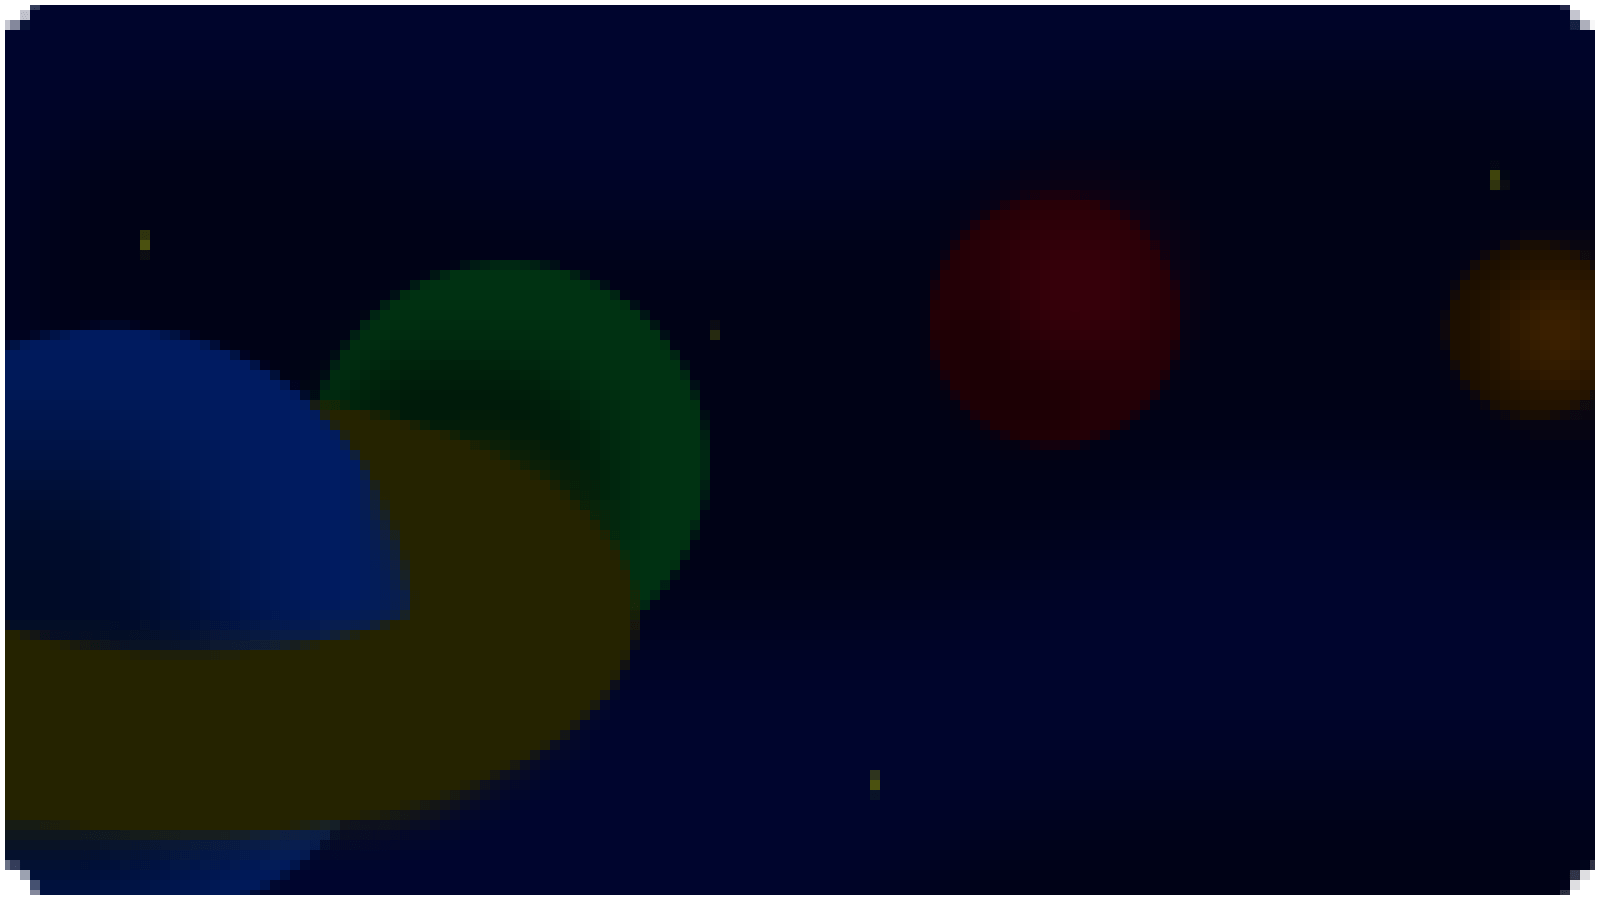
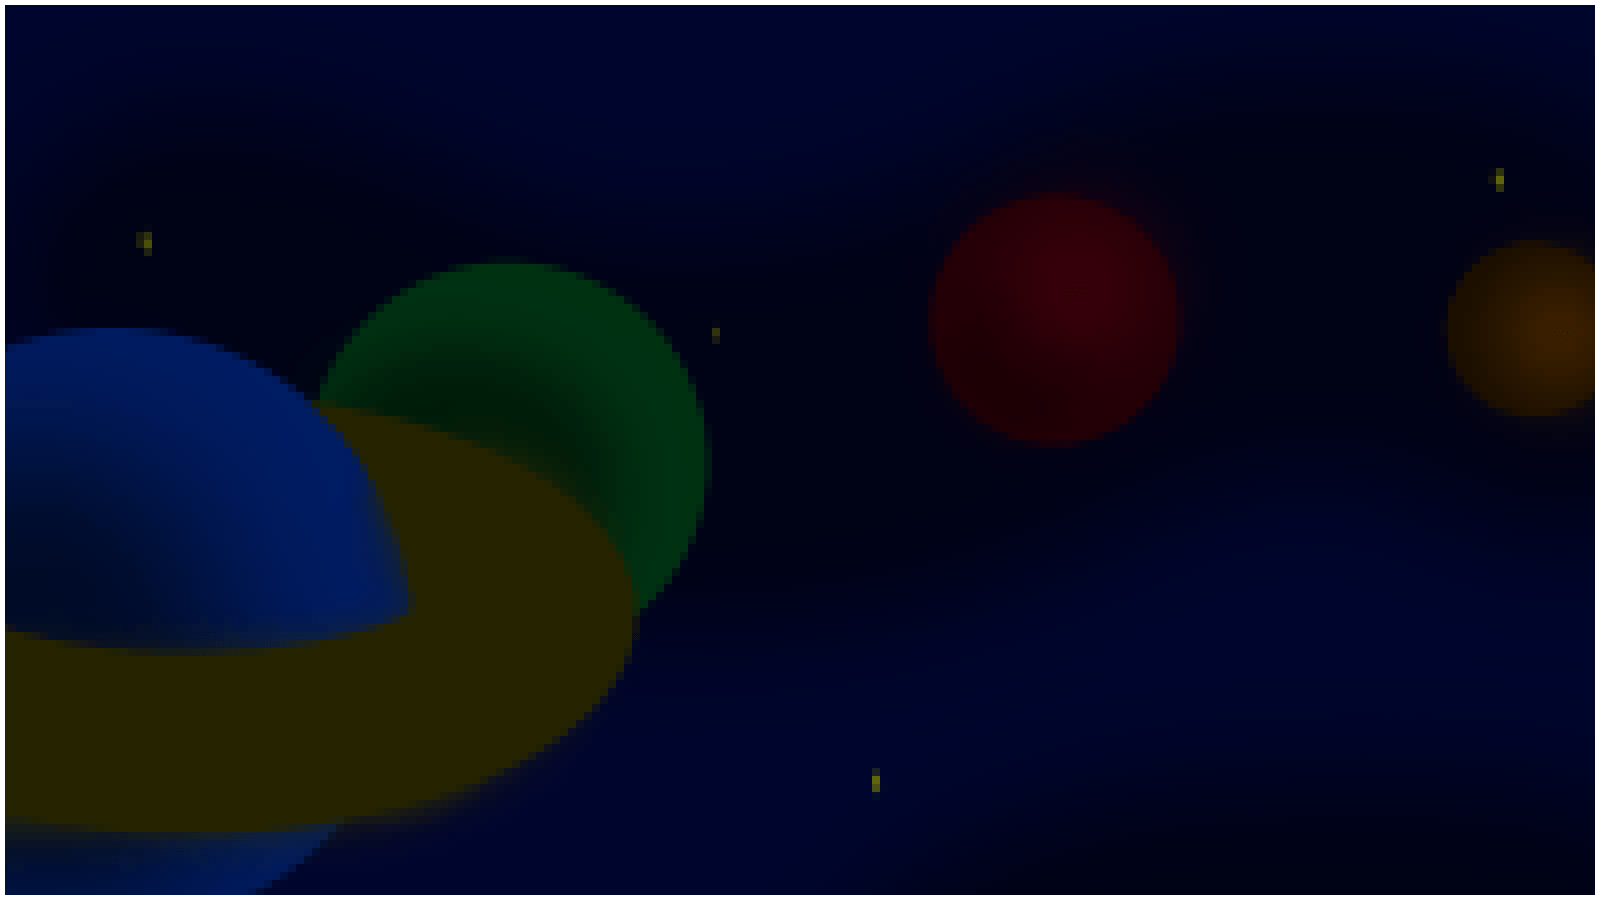
Updates
- New boss alien sprite
- Added boss alien animation
- New play button
- Updated background image
- Optimized code

diff --git a/fun game  not virus/scoreboard.py b/fun game  not virus/scoreboard.py
@@ -1,4 +1,6 @@
 import pygame
+from pygame.sprite import Group
+from ship import Ship
 
 
 class Scoreboard():
@@ -7,107 +9,47 @@ class Scoreboard():
     def __init__(self, ai_game):
         #Initialize digits 0-9
 
+        super().__init__()
         self.ai_game = ai_game
         self.screen = ai_game.screen
         self.screen_rect = self.screen.get_rect()
         self.settings = ai_game.settings
         self.stats = ai_game.stats
-        self.scoreboard = pygame.image.load('images/scoreboard.png')
+        self.scoreboard = pygame.image.load('images/scoreboard.png').convert_alpha()
         self.sb_rect = self.scoreboard.get_rect()
         self.sb_rect.top = self.screen_rect.top + 10
         self.sb_rect.right = self.screen_rect.right - 10
-        self.score0 = pygame.image.load('images/score0.png')
-        self.score0_rect = self.score0.get_rect()
-        self.score0_rect.top = self.screen_rect.top + 19
-        self.score1 = pygame.image.load('images/score1.png')
-        self.score1_rect = self.score1.get_rect()
-        self.score1_rect.top = self.screen_rect.top + 19
-        self.score2 = pygame.image.load('images/score2.png')
-        self.score2_rect = self.score2.get_rect()
-        self.score2_rect.top = self.screen_rect.top + 19
-        self.score3 = pygame.image.load('images/score3.png')
-        self.score3_rect = self.score3.get_rect()
-        self.score3_rect.top = self.screen_rect.top + 19
-        self.score4 = pygame.image.load('images/score4.png')
-        self.score4_rect = self.score4.get_rect()
-        self.score4_rect.top = self.screen_rect.top + 19
-        self.score5 = pygame.image.load('images/score5.png')
-        self.score5_rect = self.score5.get_rect()
-        self.score5_rect.top = self.screen_rect.top + 19
-        self.score6 = pygame.image.load('images/score6.png')
-        self.score6_rect = self.score6.get_rect()
-        self.score6_rect.top = self.screen_rect.top + 19
-        self.score7 = pygame.image.load('images/score7.png')
-        self.score7_rect = self.score7.get_rect()
-        self.score7_rect.top = self.screen_rect.top + 19
-        self.score8 = pygame.image.load('images/score8.png')
-        self.score8_rect = self.score8.get_rect()
-        self.score8_rect.top = self.screen_rect.top + 19
-        self.score9 = pygame.image.load('images/score9.png')
-        self.score9_rect = self.score9.get_rect()
-        self.score9_rect.top = self.screen_rect.top + 19
-        self.score_rect_list = [self.score0_rect, self.score1_rect, self.score2_rect, self.score3_rect, self.score4_rect, self.score5_rect, self.score6_rect, self.score7_rect, self.score8_rect, self.score9_rect]
-        self.score_list = [self.score0, self.score1, self.score2, self.score3, self.score4, self.score5, self.score6, self.score7, self.score8, self.score9]
-        self.place = 0
+        self.font = pygame.font.SysFont('malgungothicsemilight', 32, True, False)
+        self.points = self.font.render(f'{self.ai_game.stats.score:010d}', True, pygame.Color('black')).convert_alpha()
+        self.points_rect = self.points.get_rect()
+        self.points_rect.top = self.sb_rect.top - 2
+        self.points_rect.left = self.sb_rect.left + 16
+        self.cur_points = self.ai_game.stats.score
+        self.cur_lives = 0
+        self.ships_left()
 
-    def _check_score(self):
-        #Update digit shown in each place based on score
+    def update(self):
+        #Update the scoreboard
 
-        if self.place == 1:
-            num = self.stats.score % 10
-            self.score_rect_list[num].right = self.screen_rect.right - 17
-            self.screen.blit(self.score_list[num], self.score_rect_list[num])
+        if self.cur_points != self.ai_game.stats.score:
+            self.points = self.font.render(f'{self.ai_game.stats.score:010d}', True, pygame.Color('black')).convert_alpha()
+        self.cur_points = self.ai_game.stats.score
 
-        elif self.place == 2:
-            num = (self.stats.score // 10) % 10
-            self.score_rect_list[num].right = self.screen_rect.right - 56
-            self.screen.blit(self.score_list[num], self.score_rect_list[num])
+    def ships_left(self):
+        #Manages ship lives
 
-        elif self.place == 3:
-            num = (self.stats.score // 100) % 10
-            self.score_rect_list[num].right = self.screen_rect.right - 95
-            self.screen.blit(self.score_list[num], self.score_rect_list[num])
-
-        elif self.place == 4:
-            num = (self.stats.score // 1_000) % 10
-            self.score_rect_list[num].right = self.screen_rect.right - 134
-            self.screen.blit(self.score_list[num], self.score_rect_list[num])
-
-        elif self.place == 5:
-            num = (self.stats.score // 10_000) % 10
-            self.score_rect_list[num].right = self.screen_rect.right - 173
-            self.screen.blit(self.score_list[num], self.score_rect_list[num])
-
-        elif self.place == 6:
-            num = (self.stats.score // 100_000) % 10
-            self.score_rect_list[num].right = self.screen_rect.right - 212
-            self.screen.blit(self.score_list[num], self.score_rect_list[num])
-
-        elif self.place == 7:
-            num = (self.stats.score // 1_000_000) % 10
-            self.score_rect_list[num].right = self.screen_rect.right - 251
-            self.screen.blit(self.score_list[num], self.score_rect_list[num])
-
-        elif self.place == 8:
-            num = (self.stats.score // 10_000_000) % 10
-            self.score_rect_list[num].right = self.screen_rect.right - 290
-            self.screen.blit(self.score_list[num], self.score_rect_list[num])
-
-        elif self.place == 9:
-            num = (self.stats.score // 100_000_000) % 10
-            self.score_rect_list[num].right = self.screen_rect.right - 329
-            self.screen.blit(self.score_list[num], self.score_rect_list[num])
-
-        elif self.place == 10:
-            num = (self.stats.score // 1_000_000_000) % 10
-            self.score_rect_list[num].right = self.screen_rect.right - 368
-            self.screen.blit(self.score_list[num], self.score_rect_list[num])
-
+        if self.cur_lives != self.stats.ships_left:
+            self.ship_lives = Group()
+            for i in range(self.stats.ships_left - 1):
+                ship = Ship(self.ai_game)
+                ship.rect.right = self.sb_rect.left - 16 - (48 * i)
+                ship.rect.centery = self.sb_rect.centery
+                self.ship_lives.add(ship)
+        self.cur_lives = self.stats.ships_left
 
     def show_score(self):
         #Draw score on screen
 
         self.screen.blit(self.scoreboard, self.sb_rect)
-        
-
-
+        self.screen.blit(self.points, self.points_rect)
+        self.ship_lives.draw(self.screen)

diff --git a/fun game  not virus/play_game.py b/fun game  not virus/play_game.py
@@ -38,7 +38,6 @@ class AlienInvaders:
         self.bullets = pygame.sprite.Group()
         self.aliens1 = pygame.sprite.Group()
         self.aliens2 = pygame.sprite.Group()
-        self.scores = []
         self.cur_ammo = self.settings.bullet_limit
         self.spawn_alien2_count = self.settings.spawn_alien2
         self.a1_kill_amount = 0
@@ -54,6 +53,7 @@ class AlienInvaders:
                 self.ship.update()
                 self._update_bullets()
                 self._update_aliens()
+                self.sb.update()
             self._update_screen()
             self.clock.tick(60)
        
@@ -178,14 +178,6 @@ class AlienInvaders:
         alien2.rect = alien2.rect2
         self.aliens2.add(alien2)
 
-    def _inti_scores(self):
-        #Initialize scoreboard numbers
-
-        for i in range(1, 11):
-            score = Scoreboard(self)
-            score.place = i
-            self.scores.append(score)
-
     def _ship_hit(self):
         #Respond if ship is hit by alien
         
@@ -193,16 +185,18 @@ class AlienInvaders:
             self.stats.ships_left -= 1
             self.spawn_alien2_count = self.settings.spawn_alien2
             self.a1_kill_amount = 0
+            self.sb.ships_left()
             self.aliens1.empty()
             self.aliens2.empty()
             self.bullets.empty()
             self.cur_ammo = self.settings.bullet_limit
             self.ship.center_ship()
-            sleep(.5)
-        else:
-            self.stats.game_active = False
             sleep(1)
+        else:
+            self.sb.ships_left()
+            self.stats.game_active = False
             pygame.mouse.set_visible(True)
+            sleep(1)
 
     def _check_play(self, mouse_pos):
         #Ending and start screen buttons
@@ -211,12 +205,11 @@ class AlienInvaders:
             self.stats.reset_stats()
             self.spawn_alien2_count = self.settings.spawn_alien2
             self.a1_kill_amount = 0
+            self.sb.ships_left()
             self.aliens1.empty()
             self.aliens2.empty()
             self.bullets.empty()
-            self.scores.clear()
             self._spawn_alien1()
-            self._inti_scores()
             self.cur_ammo = self.settings.bullet_limit
             self.ship.center_ship()
             self.stats.game_active = True
@@ -234,8 +227,6 @@ class AlienInvaders:
         self.fps.blitme()
         self.sb.show_score()
 
-        for score in self.scores.copy():
-            score._check_score()
         for bullet in self.bullets.sprites():
             bullet.draw_bullet()
         for alien in self.aliens1.sprites():

diff --git a/fun game  not virus/aliens.py b/fun game  not virus/aliens.py
@@ -31,7 +31,7 @@ class Alien(Sprite):
         #Boss alien initialization
 
         self.alien2anime = 0
-        self.aliens2 = [pygame.image.load('images/alien2.png').convert_alpha(), pygame.image.load('images/alien2.png').convert_alpha(), pygame.image.load('images/alien2.png').convert_alpha(), pygame.image.load('images/alien2.png').convert_alpha()]
+        self.aliens2 = [pygame.image.load('images/alien2_1.png').convert_alpha(), pygame.image.load('images/alien2_2.png').convert_alpha(), pygame.image.load('images/alien2_3.png').convert_alpha(), pygame.image.load('images/alien2_4.png').convert_alpha()]
         self.rect2 = self.aliens2[np.random.randint(0,4)].get_rect()
         self.rand_dir2 = [self.settings.alien2_acc, -self.settings.alien2_acc]
         self.spawn_coord2 = [400, -400, 450, -450, 500, -500, 550, -550, 600, -600]
@@ -51,17 +51,17 @@ class Alien(Sprite):
             self.screen.blit(self.aliens1[self.alien1anime//20], self.rect1)
             self.alien1anime += 1
         elif self.type == 2:
-            if self.alien2anime >= 120:
+            if self.alien2anime >= 40:
                 self.alien2anime = 0
-            self.screen.blit(self.aliens2[self.alien1anime//30], self.rect2)
+            self.screen.blit(self.aliens2[self.alien2anime//10], self.rect2)
             self.alien2anime += 1
 
     def _update_alien1_acc(self):
         #Control minion alien movement
 
         self.acc1 = vec(0, 0)
-        if np.random.randint(120) == 0 and self.randmove1 == 0:
-            self.randmove1 = 50
+        if np.random.randint(self.settings.alien1_random_move_chance) == 0 and self.randmove1 == 0:
+            self.randmove1 = self.settings.alien1_random_move_duration
             self.dir1 = np.random.randint(2)
         if self.randmove1 == 0:
             if self.rect1.centerx < self.ai_game.ship.rect.centerx:
@@ -81,8 +81,8 @@ class Alien(Sprite):
         #Control boss alien movement
 
         self.acc2 = vec(0, 0)
-        if np.random.randint(120) == 0 and self.randmove2 == 0:
-            self.randmove2 = 30
+        if np.random.randint(self.settings.alien2_random_move_chance) == 0 and self.randmove2 == 0:
+            self.randmove2 = self.settings.alien2_random_move_duration
             self.dir2 = np.random.randint(2)
         if self.randmove2 == 0:
             if self.rect2.centerx < self.ai_game.ship.rect.centerx:

diff --git a/fun game  not virus/button.py b/fun game  not virus/button.py
@@ -7,11 +7,15 @@ class Button:
     def __init__(self, ai_game):
         self.screen = ai_game.screen
         self.screen_rect = self.screen.get_rect()
-        self.play_button = pygame.image.load('images/play.png')
-        self.play_button_rect = self.play_button.get_rect()
+        self.play_buttons = [pygame.image.load('images/play_button_1.png').convert_alpha(), pygame.image.load('images/play_button_2.png').convert_alpha(), pygame.image.load('images/play_button_3.png').convert_alpha(), pygame.image.load('images/play_button_4.png').convert_alpha(), pygame.image.load('images/play_button_5.png').convert_alpha(), pygame.image.load('images/play_button_6.png').convert_alpha(), pygame.image.load('images/play_button_7.png').convert_alpha(), pygame.image.load('images/play_button_8.png').convert_alpha(), pygame.image.load('images/play_button_9.png').convert_alpha(), pygame.image.load('images/play_button_10.png').convert_alpha(), pygame.image.load('images/play_button_11.png').convert_alpha(), pygame.image.load('images/play_button_12.png').convert_alpha(), pygame.image.load('images/play_button_13.png').convert_alpha(), pygame.image.load('images/play_button_14.png').convert_alpha(), pygame.image.load('images/play_button_15.png').convert_alpha()]
+        self.play_button_rect = self.play_buttons[0].get_rect()
         self.play_button_rect.center = self.screen_rect.center
+        self.playbuttonanime = 0
 
     def draw_play_button(self):
         #Draw the play button
 
-        self.screen.blit(self.play_button, self.play_button_rect)
+        if self.playbuttonanime >= 150:
+            self.playbuttonanime = 0
+        self.screen.blit(self.play_buttons[self.playbuttonanime//10], self.play_button_rect)
+        self.playbuttonanime += 1

diff --git a/fun game  not virus/powerups.py b/fun game  not virus/powerups.py
@@ -5,4 +5,31 @@ class PowerUp:
     #Creates powerups for the player
 
     def __init__(self, ai_game):
+        self.ai_game = ai_game
+        self.screen = self.ai_game.screen
+        self.screen_rect = self.screen.get_rect()
+        self.shield_image = 0 #pygame.image.load('images/.png').convert_alpha()
+        self.laser_image = 0 #pygame.image.load('images/.png').convert_alpha()
+        self.engine_image = 0 #pygame.image.load('images/.png').convert_alpha()
+        self.extra_ammo_image = 0 #pygame.image.load('images/.png').convert_alpha()
+        self.extra_bullet_image = 0 #pygame.image.load('images/.png').convert_alpha()
+        self.slow_time_image = 0 #pygame.image.load('images/.png').convert_alpha()
+
+    def shield(self):
         pass
+
+    def laser(self):
+        pass
+
+    def engine(self):
+        pass
+
+    def extra_ammo(self):
+        pass
+
+    def extra_bullet(self):
+        pass
+
+    def slow_time(self):
+        pass
+

diff --git a/fun game  not virus/settings.py b/fun game  not virus/settings.py
@@ -4,7 +4,7 @@ class Settings():
     def __init__(self):
         #Default player ship settings
 
-        self.ship_limit = 3
+        self.ship_limit = 4
         self.player_acc = 0.25
         self.player_friction = -.03
 
@@ -13,6 +13,8 @@ class Settings():
         self.alien1_acc = 0.15
         self.alien1_friction = -.03
         self.alien1_points = 50
+        self.alien1_random_move_chance = 80
+        self.alien1_random_move_duration = 30
 
         #Boss alien settings
 
@@ -20,6 +22,8 @@ class Settings():
         self.alien2_friction = -.02
         self.alien2_points = 500
         self.spawn_alien2 = 4
+        self.alien2_random_move_chance = 100
+        self.alien2_random_move_duration = 20
 
         #Player bullet settings
 

diff --git a/fun game  not virus/fps.py b/fun game  not virus/fps.py
@@ -8,11 +8,11 @@ class Get_FPS:
         self.ai_game = ai_game
         self.screen = ai_game.screen
         self.screen_rect = self.screen.get_rect()
-        self.font = pygame.font.SysFont('malgungothicsemilight', 32)
+        self.font = pygame.font.SysFont('malgungothicsemilight', 32, True, False)
         self.fps = self.font.render(str(int(self.ai_game.clock.get_fps())), True, pygame.Color('white'))
         self.cur_fps = int(self.ai_game.clock.get_fps())
         self.fps_rect = self.fps.get_rect()
-        self.fps_rect.top = self.screen_rect.top + 5
+        self.fps_rect.top = self.screen_rect.top + 3
         self.fps_rect.left = self.screen_rect.left + 10
 
     def update_fps(self):

diff --git a/fun game  not virus/ship.py b/fun game  not virus/ship.py
@@ -1,11 +1,15 @@
 import pygame
+from pygame.sprite import Sprite
 vec = pygame.math.Vector2
 
 
-class Ship:
+class Ship(Sprite):
     #Manage main player ship
 
     def __init__(self, ai_game):
+        #Initialize player ship and starting location
+
+        super().__init__()
         self.ai_game = ai_game
         self.settings = self.ai_game.settings
         self.screen = ai_game.screen

diff --git a/fun game  not virus/game_stats.py b/fun game  not virus/game_stats.py
@@ -3,8 +3,10 @@ class GameStats:
 
     def __init__(self, ai_game):
         self.settings = ai_game.settings
+        self.score = 0
         self.reset_stats()
         self.game_active = False
+        self.ships_left = self.settings.ship_limit
 
     def reset_stats(self):
         #Reset lives and score

diff --git a/fun game  not virus/test.py b/fun game  not virus/test.py
@@ -2,5 +2,4 @@ import pygame
 import numpy as np
 
 
-for i in pygame.font.get_fonts():
-    print(i)
+print(f"{0:010d}")

diff --git a/fun game  not virus/tempCodeRunnerFile.py b/fun game  not virus/tempCodeRunnerFile.py
@@ -1,1 +1,1 @@
-n
+prite.
